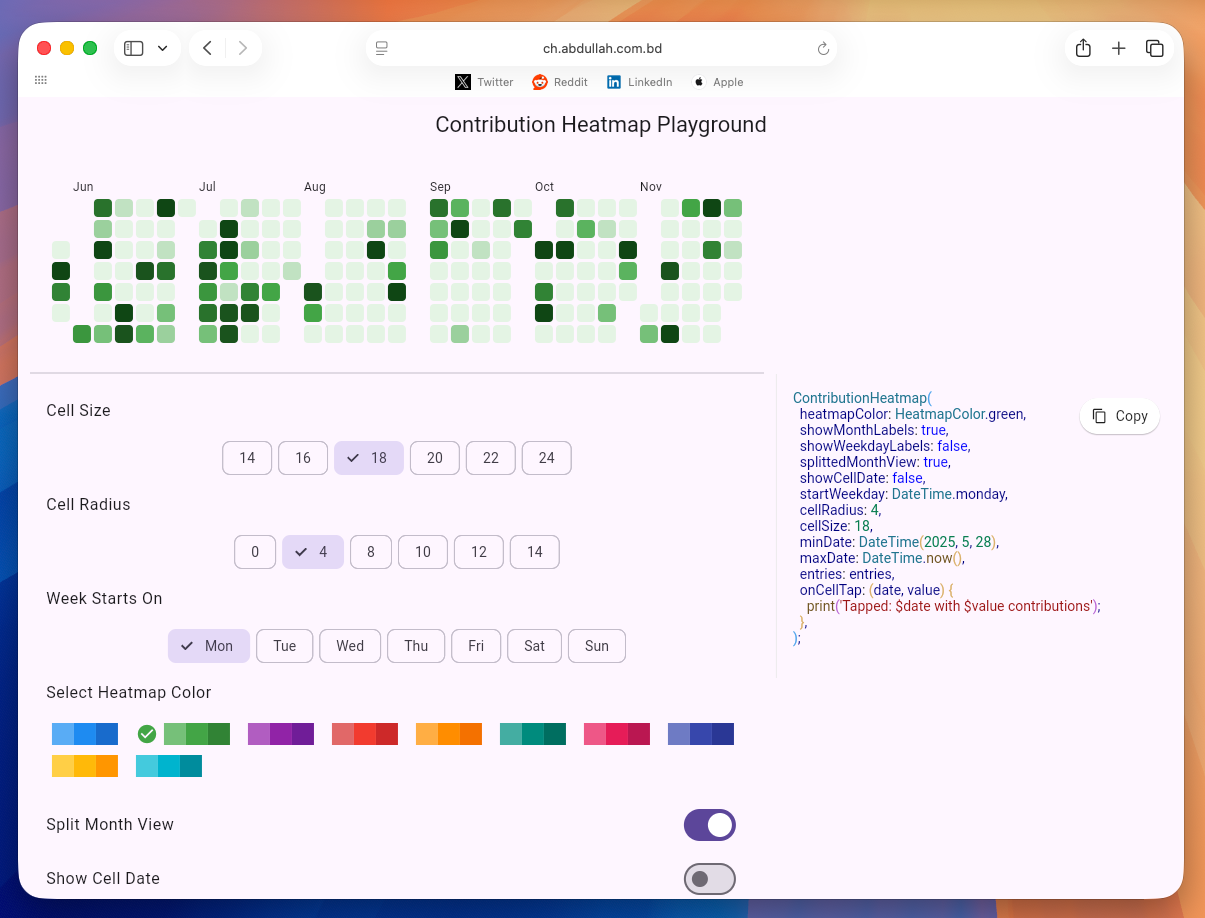
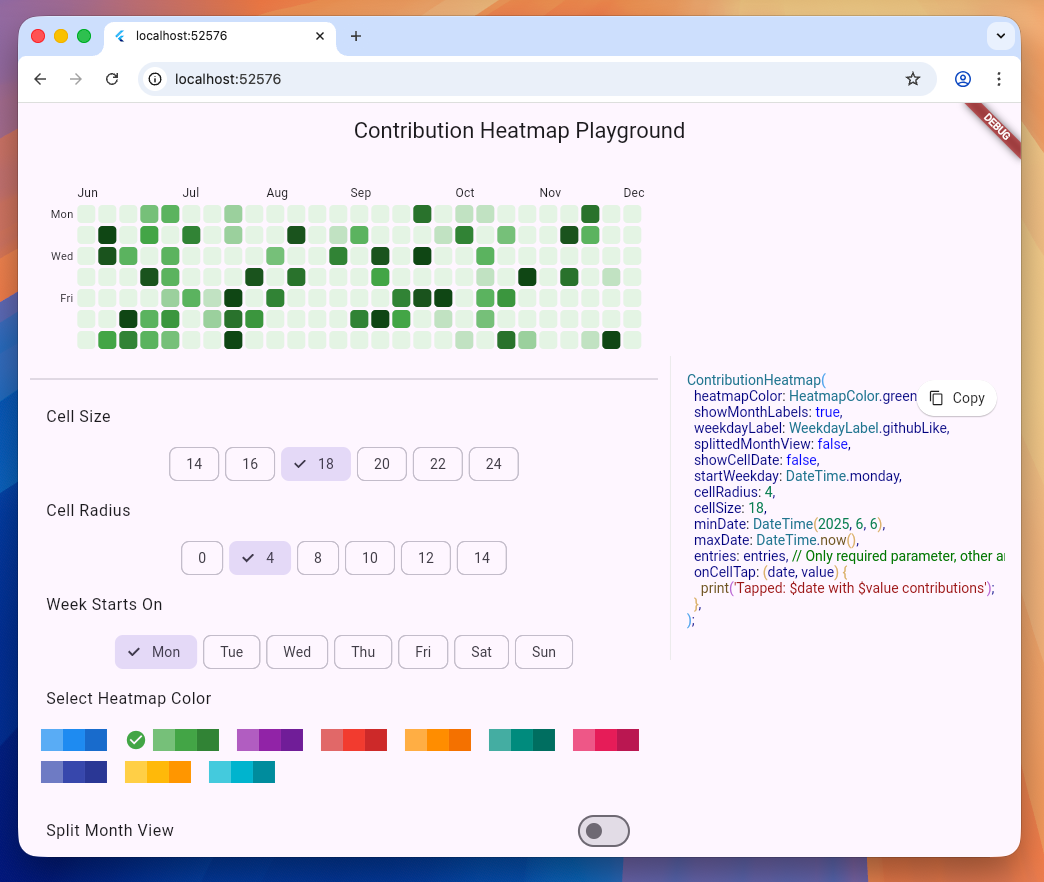
fix(example): Update screenshot to match latest 0.5.0 release

diff --git a/example/lib/main.dart b/example/lib/main.dart
@@ -35,14 +35,14 @@ class ExampleHomePage extends StatelessWidget {
         child: ContributionHeatmap(
           heatmapColor: HeatmapColor.green,
           showMonthLabels: true,
-          weekdayLabel: WeekdayLabel.full,
+          weekdayLabel: WeekdayLabel.githubLike,
           startWeekday: DateTime.monday,
           cellRadius: 5,
           minDate: DateTime(2025, 4, 1), // Start date: March 1, 2025
-          maxDate: DateTime.now(), // End date: Today
+          maxDate: DateTime(2025, 9, 28), // End date: Today
           cellSize: 19,
-          splittedMonthView: true, // Visual separation between months
-          showCellDate: true, // Show date numbers inside cells
+          splittedMonthView: false, // Visual separation between months
+          showCellDate: false, // Show date numbers inside cells
           entries: [
             ContributionEntry(DateTime(2025, 4, 23), 5),
             ContributionEntry(DateTime(2025, 4, 24), 7),
